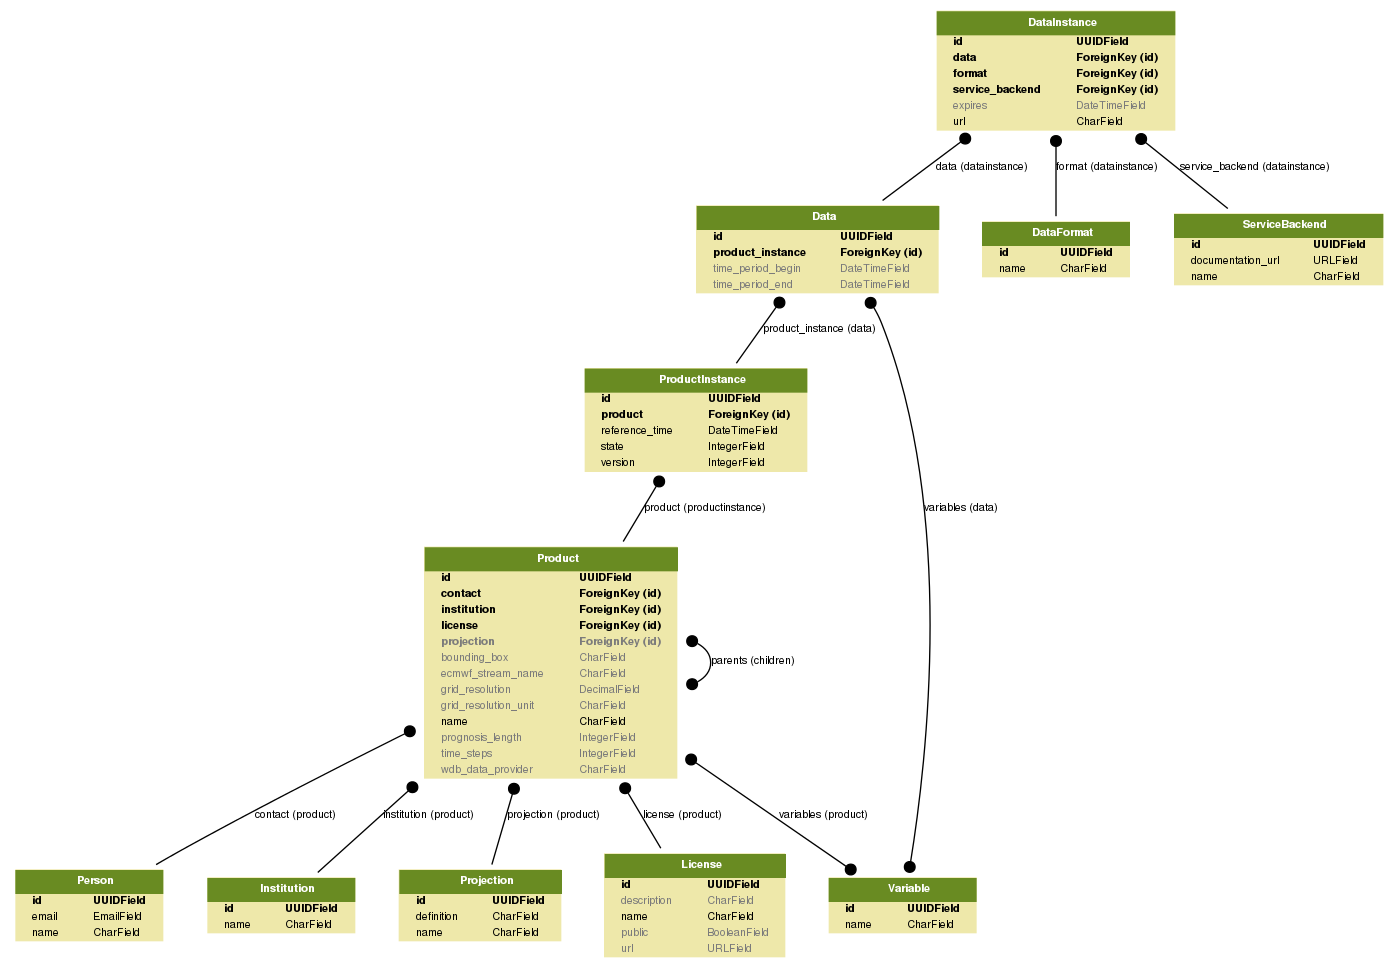
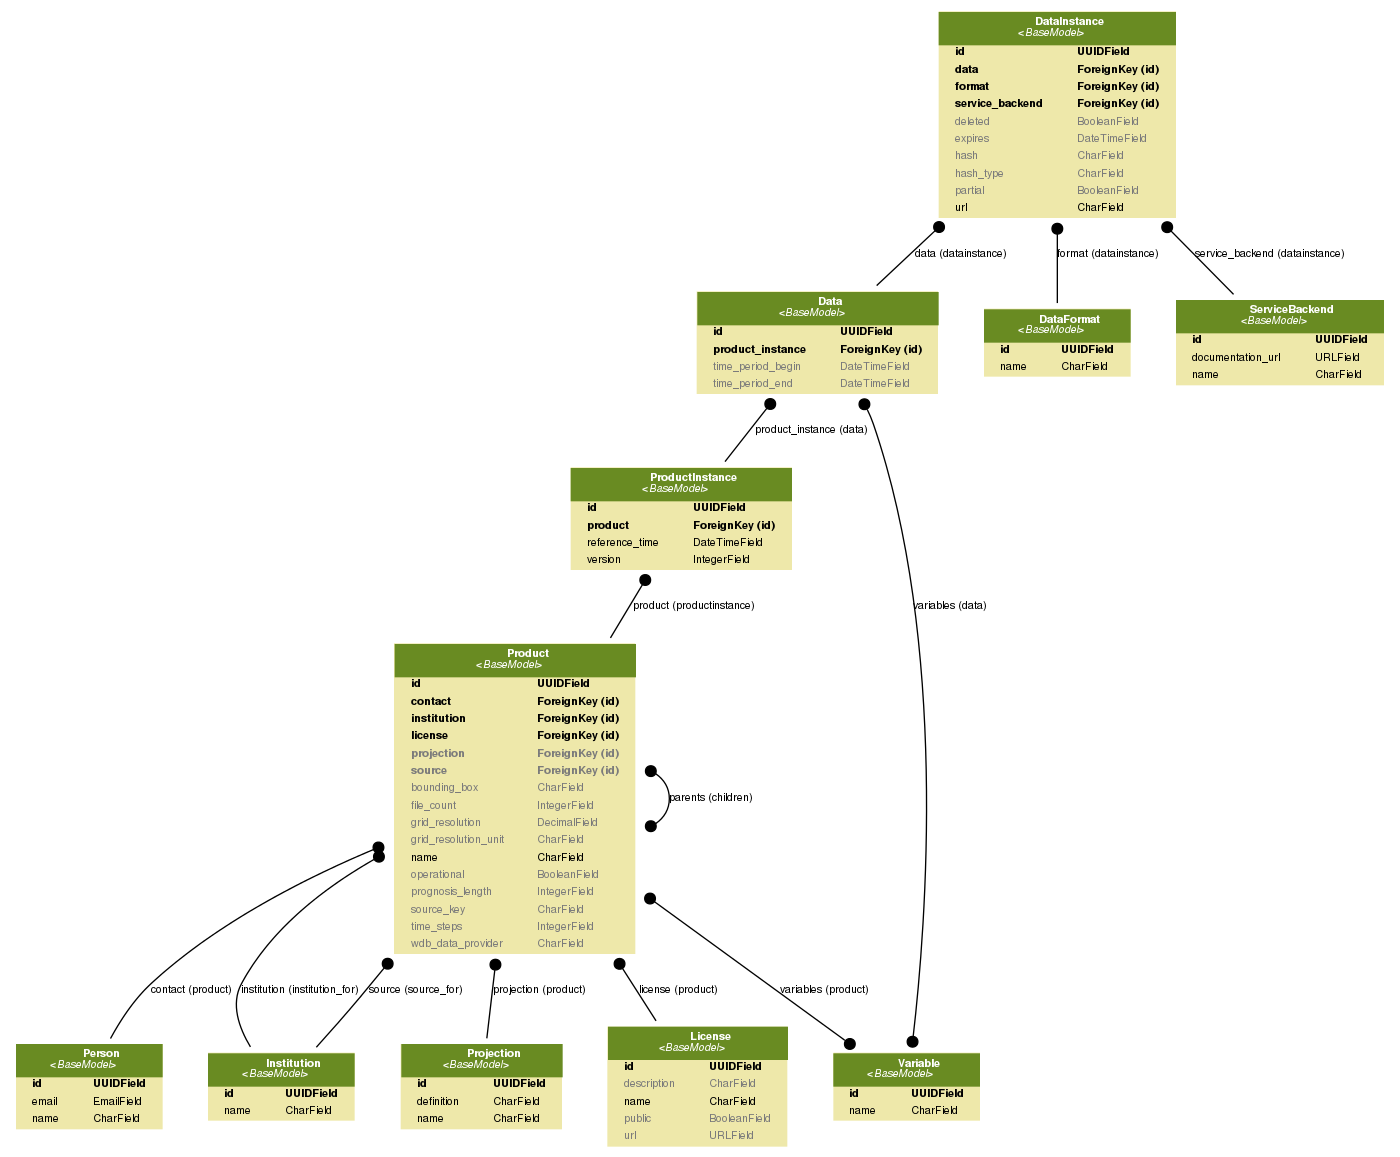
Update data model graph

Changed region(s): [[0.0922, 0.0, 1.0, 0.9917], [0.0, 0.8988, 0.1229, 0.9917], [0.6455, 0.4649, 0.7069, 0.7438]]

diff --git a/README.md b/README.md
@@ -62,7 +62,7 @@ For `add` access, it is neccessary to define `change` access as well. This is re
 ## Generating the data model graph
 
 ```
-$ ./manage.py graph_models core -x created,modified | dot -Tpng > doc/model_graph.png
+$ ./manage.py graph_models core -x created,modified -X BaseModel | dot -Tpng > doc/model_graph.png
 ```
 
 ## Required parameters for a product instance
